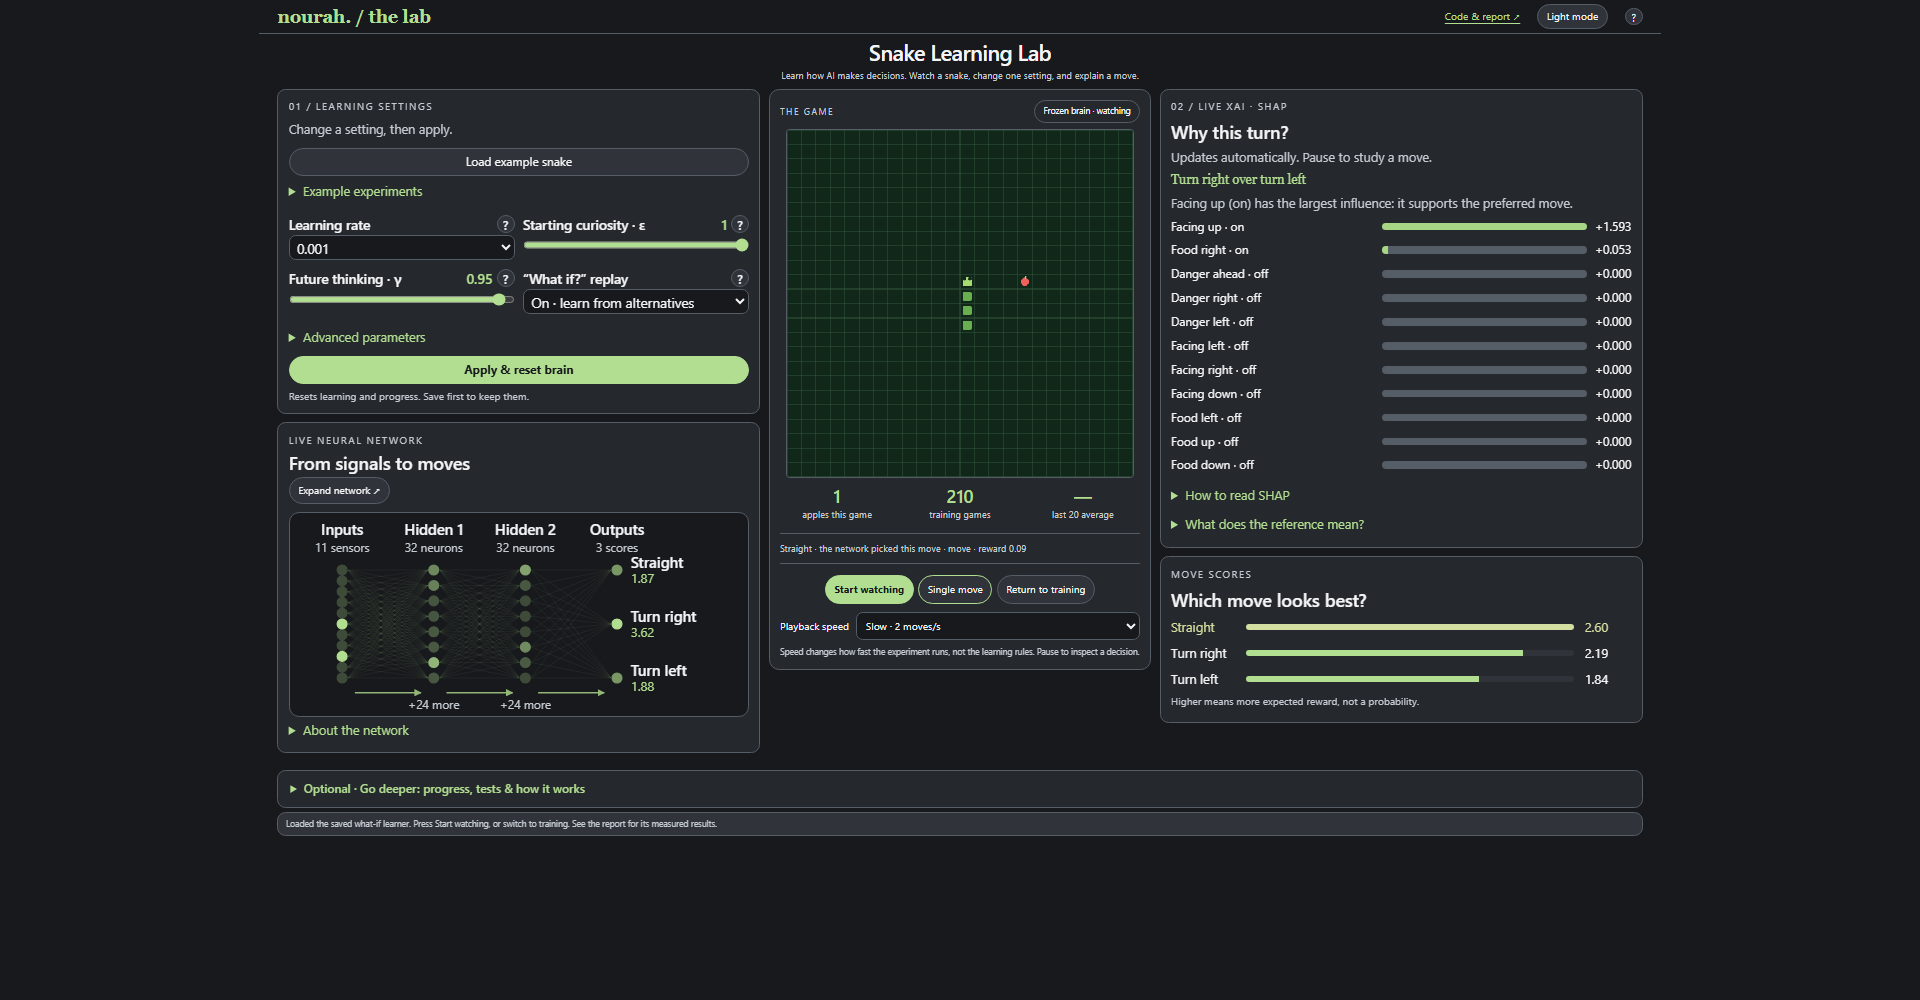
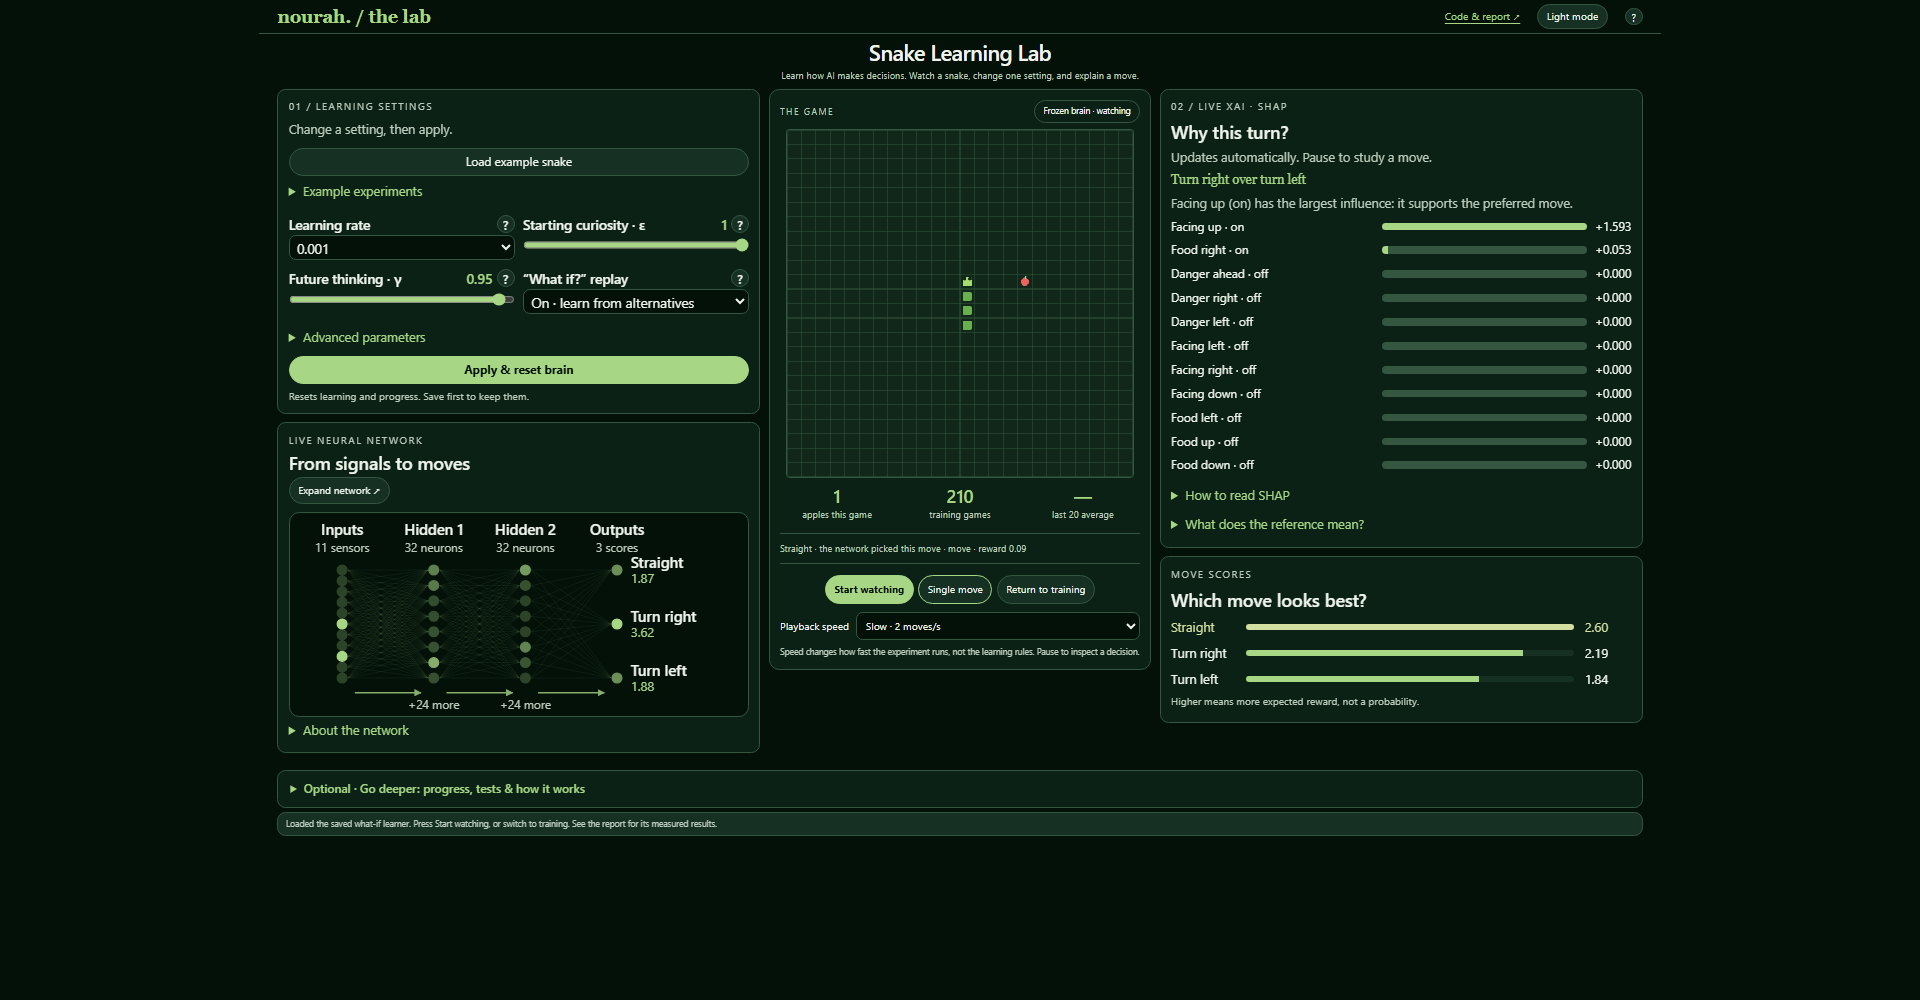
Deepen forest background and refresh blog screenshots

diff --git a/client/public/snake-lab/style.css b/client/public/snake-lab/style.css
@@ -766,7 +766,7 @@ header, main { max-width: 1300px; }
   #board { width: min(100%, 410px, calc(100dvh - 300px)); }
 }
 
-:root { --bg: #0d1b13; --panel: #14271c; --soft: #20382a; --ink: #f0f5ec; --muted: #bdcdbd; --line: #405d47; --accent: #a7d785; --gold: #d3dfa1; }
+:root { --bg: #031109; --panel: #0b2115; --soft: #163024; --ink: #f0f5ec; --muted: #bdcdbd; --line: #355741; --accent: #a7d785; --gold: #d3dfa1; }
 body.light { --bg: #f4f5f6; --panel: #ffffff; --soft: #e7eaed; --ink: #20252b; --muted: #46515d; --line: #89939e; --accent: #326226; --gold: #596331; }
 @media(max-width:680px) {
   header, main { padding: 14px; }
@@ -799,5 +799,6 @@ body.light { --bg: #f4f5f6; --panel: #ffffff; --soft: #e7eaed; --ink: #20252b; -
   .controls-column .control label { font-size: 14px; flex-wrap: nowrap; }
   .control .help-button { margin-left: auto; flex-shrink: 0; }
 }
+
 
 
